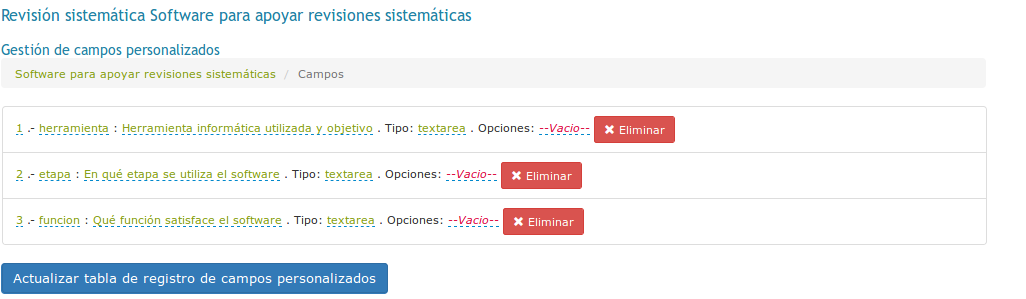
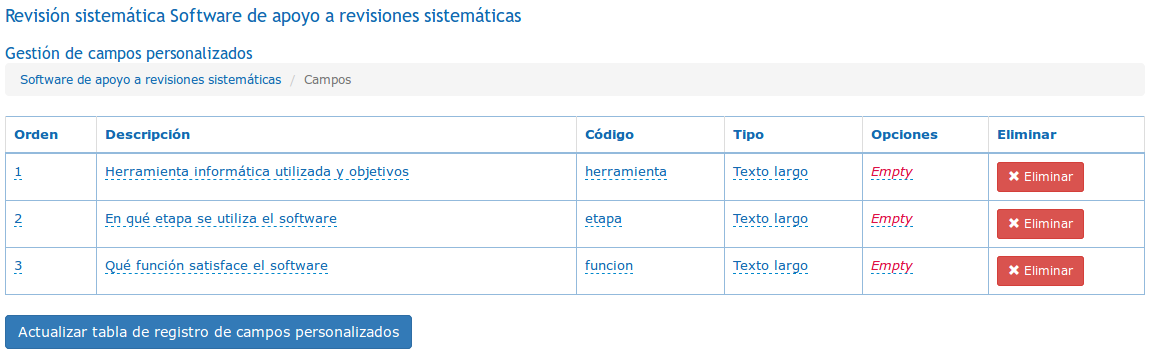
Updated images on spanish manual. Added new group for guests2

diff --git a/docs/manual/es/index.html b/docs/manual/es/index.html
@@ -26,7 +26,7 @@
 </h1>
 <p>Software de gestión de revisión sistemática de literatura</p>
 <p>Manual de usuario</p>
-<p>Version 1.0.0 - Revision 16 de Marzo 2018</p>
+<p>Version 1.0.0 - Revision 23 de Marzo 2018</p>
     <p>Autor: Claudio Bustos</p>
     <p>Revisores: Maria Gabriela Morales, Fabiola Sáez, Astrid Sarmiento</p>
     <p>&copy; Copyright Claudio Bustos 2018</p>
@@ -292,6 +292,7 @@ passenger_ruby &lt;ruby_location&gt;
 <p><img class='border img-fluid interface' src="images/image9.png" /></p>
 <p>Como se muestra, se definieron tres objetivos, por lo que es posible generar un formulario personalizado para la revisión sistemática. Para ello, se debe presionar en el botón ‘Campos de análisis’.</p>
 <p>Cada formulario está compuesto por uno o más campos. Primero se debe indicar qué lugar ocupará el campo dentro del formulario. Después, qué código tendrá el campo en la base de datos – este sólo podrá ser construido con letras minúsculas, números o el signo ‘_’. En tercer lugar, en la descripción se incluirá el texto que aparecerá en el formulario y, finalmente, qué tipo de campo será. Al terminar, presionar ‘Crear nuevo campo’.</p>
+<p><img class='border img-fluid interface' src="images/image9b.png" /></p>
 <p>En el caso del ejemplo, necesitamos tres campos: herramientas, etapa y función. Una vez que el formulario esté completamente definido, presionar el botón ‘Actualizar tabla de registro de campos personalizados’, para generar el formulario.</p>
 <p><img class='border img-fluid interface' src="images/image10.png" /></p>
 <h3><span id="guia_busqueda" class="anchor"></span>Etapa de búsqueda</h3>
@@ -306,11 +307,11 @@ passenger_ruby &lt;ruby_location&gt;
 <p><img class='border img-fluid interface' src="images/image13.png" /></p>
 <p>Al procesar la búsqueda, el sistema captura toda la información posible desde los registros almacenados en el archivo BibTeX. Se puede verificar que son seis los registros que el sistema detecta.</p>
 <p><img class='border img-fluid interface' src="images/image14.png" /></p>
-<p>Al entrar en ‘Registros’, se observa que el sistema ha ingresado información sobre autores, año de publicación, título, así como el DOI de los documentos. En el caso del ejemplo, el BibTeX poseía el resumen[abstract] de cada artículo, por lo que éste puede ser revisado presionando en el botón respectivo. A cada registro en una búsqueda se le asigna un ‘documento canónico’, correspondiente a la referencia única dentro del sistema a ese documento. De esta manera, si en distintas búsquedas aparece el mismo texto con la misma DOI, el sistema les asignará a todos estos registros el mismo documento canónico.</p>
+<p>Al entrar en ‘Registros’, se observa que el sistema ha ingresado información sobre autores, año de publicación, título, así como el DOI de los documentos. En el caso del ejemplo, el BibTeX poseía el resumen de cada artículo, por lo que éste puede ser revisado presionando en el botón respectivo. A cada registro en una búsqueda se le asigna un ‘documento canónico’, correspondiente a la referencia única dentro del sistema a ese documento. De esta manera, si en distintas búsquedas aparece el mismo texto con la misma DOI, el sistema les asignará a todos estos registros el mismo documento canónico.</p>
 <p><img class='border img-fluid interface' src="images/image15.png" /></p>
 <p>Como las referencias son las esperadas, es posible validar la búsqueda realizada. Para ello, se debe volver a la pantalla de búsquedas y hacer click en el cuadro de chequeo respectivo, y presionar en el botón ‘Válida’. El resultado debería ser el siguiente</p>
 <p><img class='border img-fluid interface' src="images/image17.png" /></p>
-<p>Una vez que todas las búsquedas son definidas como válidas o no válidas, es posible pasar a la siguiente etapa: revisión[screening] de títulos y abstract. Para ello, es necesario ingresar al tablero presionando en el título de la aplicación. Para administrar las validaciones, hacer click en la línea que dice ‘Número total de búsquedas de la revisión: 1’</p>
+<p>Una vez que todas las búsquedas son definidas como válidas o no válidas, es posible pasar a la siguiente etapa:  tamizaje de títulos y abstract. Para ello, es necesario ingresar al tablero presionando en el título de la aplicación. Para administrar las validaciones, hacer click en la línea que dice ‘Número total de búsquedas de la revisión: 1’</p>
 <p><img class='border img-fluid interface' src="images/image18.png" /></p>
 <p>En la pantalla de administración de búsquedas, se muestran todas las búsquedas realizadas por los distintos usuarios, y se ofrece la posibilidad de validarlas o hacerlas no válidas. Como para todas las búsquedas ya existe una opción, se entrega la opción de avanzar a la siguiente etapa.</p>
 <p><img class='border img-fluid interface' src="images/image19.png" /></p>
@@ -318,16 +319,16 @@ passenger_ruby &lt;ruby_location&gt;
 <p>Una vez definidos los registros, deben revisarse para verificar si son útiles o no. Para ello, el primer criterio es ver si el título y resumen del artículo entrega evidencia para ingresar el texto al estudio.</p>
 <p>En la etapa siguiente, el sistema presenta la interface de administración</p>
 <p><img class='border img-fluid interface' src="images/image20.png" /></p>
-<p>De forma predeterminada, Buhos considera dos usuarios: un administrador con todos los permisos para administrar el sistema y un analista con password y clave ‘analyst’, el que cuenta con la autorización para chequear las revisiones sistemáticas que les están asignadas. En el ejemplo, se asignaron todos los documentos a ambos usuarios para mostrar la resolución de divergencias. Para ello, hay presionar el botón ‘Asignaciones de DC’.</p>
+<p>De forma predeterminada, Buhos considera tres usuarios: un administrador con todos los permisos para administrar el sistema, un analista con password y clave ‘analyst’, el que cuenta con la autorización para chequear las revisiones sistemáticas que les están asignadas y un usuario visitante, con password y clave 'guest', qué solo puede observar el sistema y enviar mensajes. En el ejemplo, la revisión sistemática está asignada al grupo donde se encuentran el administrador y el analista,  por lo que se asignarán todos los documentos a ambos usuarios para mostrar la resolución de divergencias. Para ello, hay presionar el botón ‘Asignaciones de DC’.</p>
 <p>Se pueden asignar todos los documentos a un usuario, usando los botones ‘Asignar todos’ o asignar individualmente cada documento. En el caso, se presionó los dos botones de ‘Asignar todos’.</p>
 <p><img class='border img-fluid interface' src="images/image21.png"/></p>
 <p>El resultado debería ser similar al siguiente:</p>
 <p><img class='border img-fluid interface' src="images/image22.png" /></p>
-<p>Al ingresar al tablero de usuario, se observa que, como administrador, tenemos seis documentos por resolver. Como evaluador, se muestra que hay que decidir sobre seis documentos. Luego, presionar el último enlace, para comenzar el proceso de evaluación.</p>
+<p>Al ingresar al tablero de usuario, se observa que, como administrador, tenemos seis documentos por resolver. Como evaluador, se muestra que hay que decidir sobre seis documentos. Presionemos el último enlace, para comenzar el proceso de evaluación.</p>
 <p><img class='border img-fluid interface' src="images/image23.png" /></p>
 <p>La interface de evaluación, en su parte superior, entrega información general sobre la etapa, los objetivos de la revisión y muestra el estado de avance. En este caso, hay seis documentos sin decisión.</p>
 <p><img class='border img-fluid interface' src="images/image24.png" /></p>
-<p>Posteriormente, se presenta cada documento a evaluar. En cada uno se muestra el título, su referencia en formato APA, cuántas citaciones tiene y el resumen [abstract]. En base a esta información es que hay que decidir si el documento entrega información suficiente. Del abstract que se presenta como ejemplo, se observa que no entrega información sobre software de revisión sistemática, sino que es una investigación aborda cómo se realizan revisiones. Por tanto, se debe marcar ‘No’ en la decisión, y se puede agregar como etiqueta su condición de investigación sobre revisiones.</p>
+<p>Posteriormente, se presenta cada documento a evaluar. En cada uno se muestra el título, su referencia en formato APA, cuántas citaciones tiene y el resumen . En base a esta información es que hay que decidir si el documento entrega información suficiente. Del abstract que se presenta como ejemplo, se observa que no entrega información sobre software de revisión sistemática, sino que es una investigación aborda cómo se realizan revisiones. Por tanto, se debe marcar ‘No’ en la decisión, y se puede agregar como etiqueta su condición de investigación sobre revisiones.</p>
 <p><img class='border img-fluid interface' src="images/image25.png" /></p>
 <p>Al tomar la decisión antes indicada, se aprecia cómo cambia el color del cuadro y se agrega la etiqueta seleccionada.</p>
 <p>El resumen del siguiente texto, sobre GAPScreener, presenta algunas de las palabras claves que se establecieron al definir la revisión sistemática. Queda claro tanto en el título como en el abstract que es una herramienta pertinente a la investigación. Incluso se puede agregar un tag que señale que es una herramienta para la etapa de screening.</p>

diff --git a/lib/buhos/create_schema.rb b/lib/buhos/create_schema.rb
@@ -424,11 +424,11 @@ module Buhos
 
 
     def self.allocate_users_to_groups(db, id_admin, id_analyst, id_guest)
-      group_id = db[:groups].replace(:group_administrator => id_admin, :description => "First group, just for demostration", :name => "demo group")
+      group_id = db[:groups].replace(:id=>1,:group_administrator => id_admin, :description => "First group, just for demostration", :name => "demo group")
       db[:groups_users].replace(:group_id => group_id, :user_id => id_admin)
       db[:groups_users].replace(:group_id => group_id, :user_id => id_analyst)
 
-      group_guest = db[:groups].replace(:group_administrator => id_admin, :description => "Guest group", :name => "guest group")
+      group_guest = db[:groups].replace(:id=>2,:group_administrator => id_admin, :description => "Guest group", :name => "guest group")
       db[:groups_users].replace(:group_id => group_guest, :user_id => id_admin)
       db[:groups_users].replace(:group_id => group_guest, :user_id => id_guest)
     end
